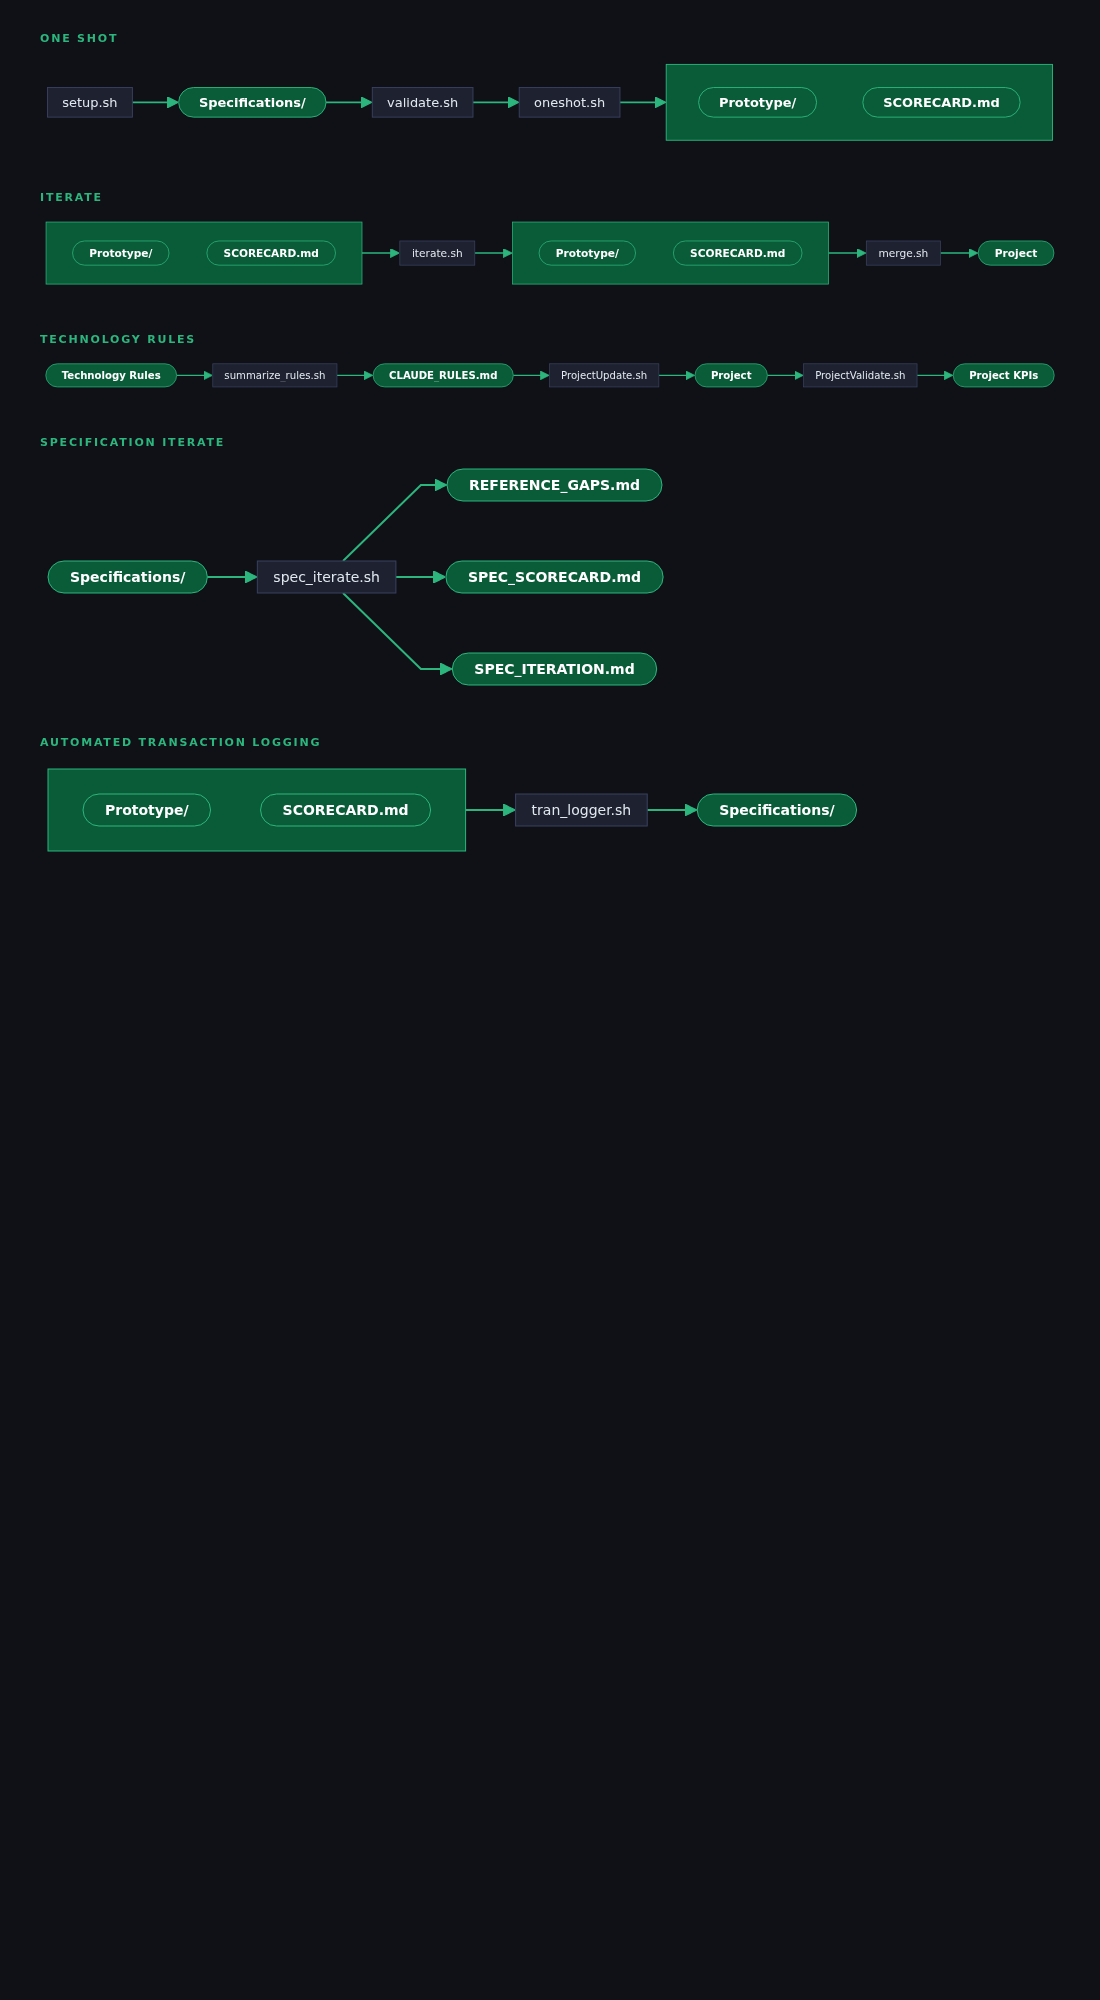
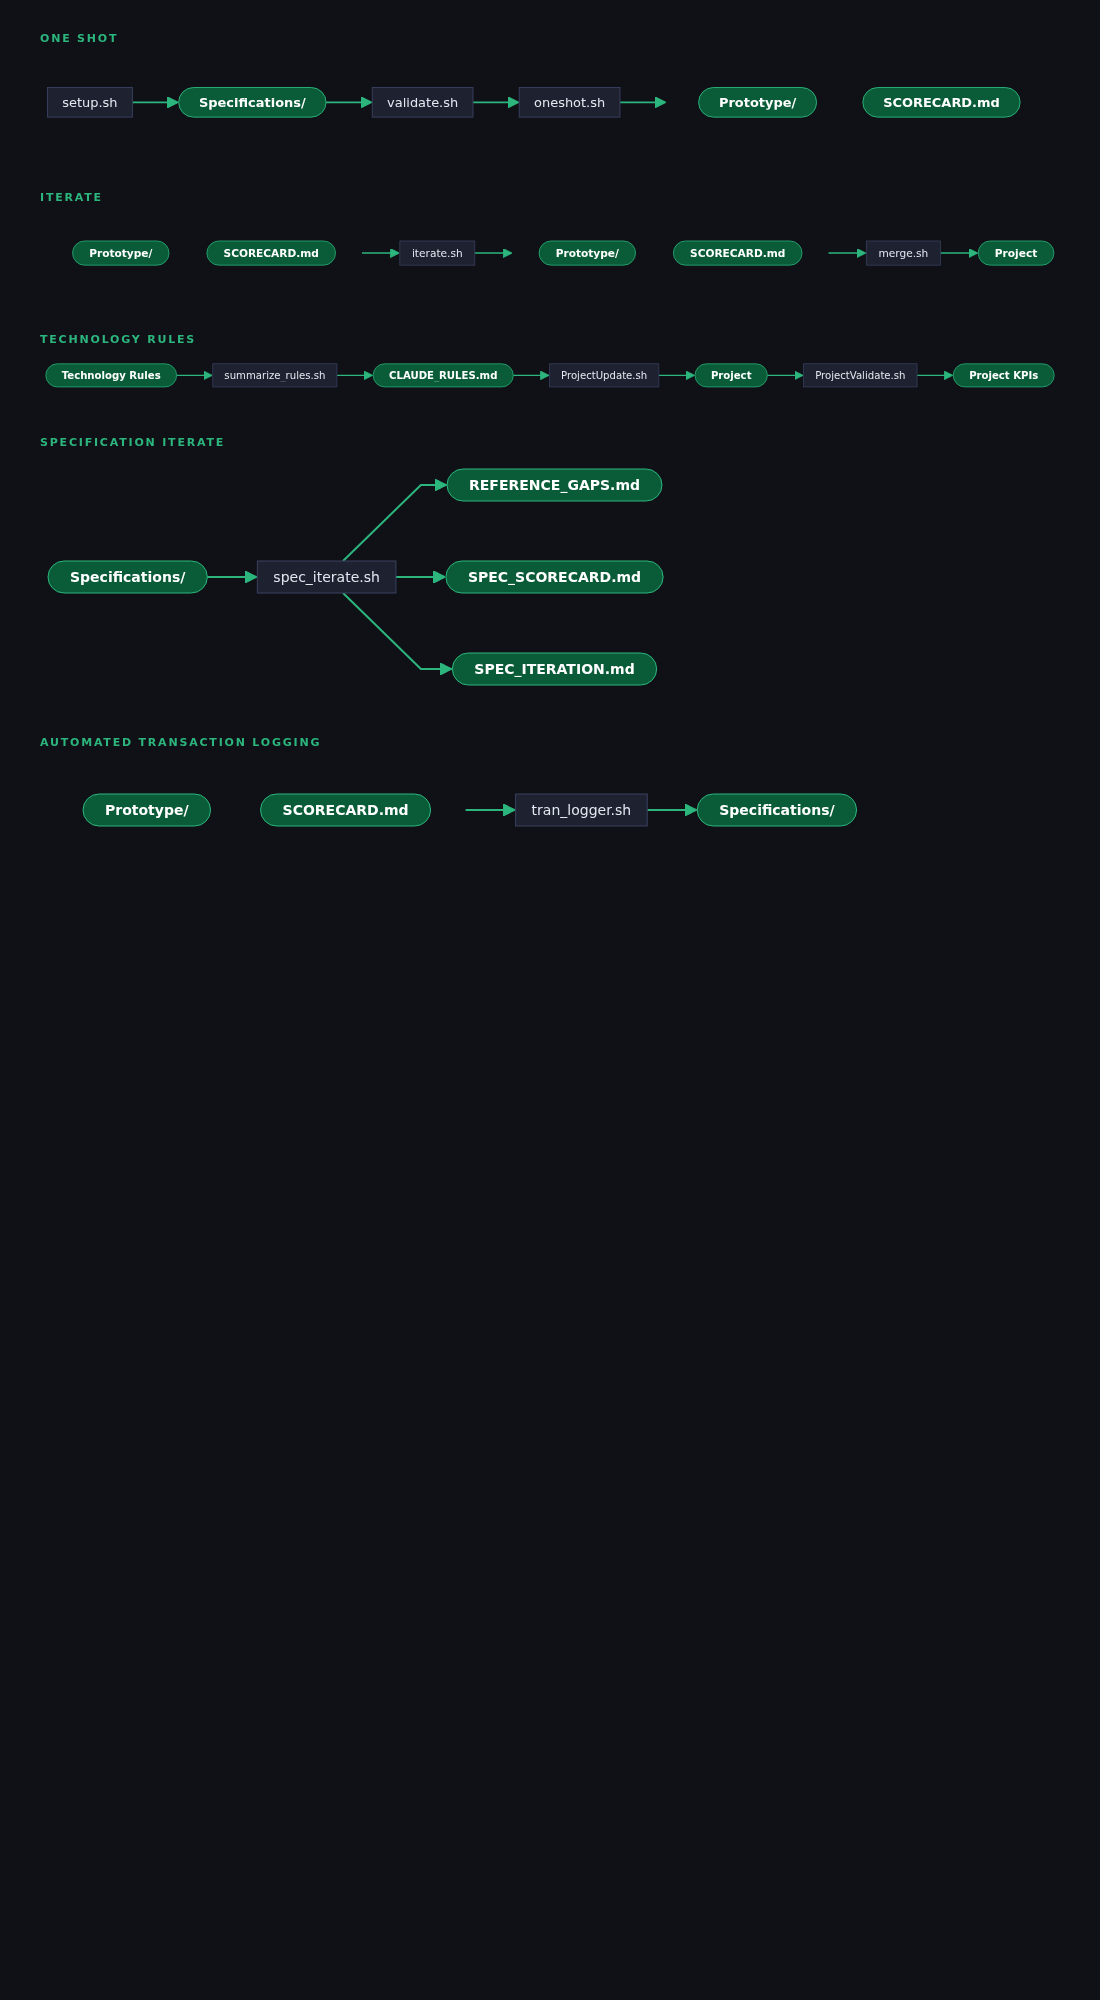
doc: remove subgraph container — Prototype/ and SCORECARD.md as two separate nodes

Changed region(s): [[0.4636, 0.031, 0.9582, 0.155], [0.0309, 0.372, 0.4327, 0.434], [0.0309, 0.093, 0.34, 0.155]]

diff --git a/doc_v2/diagrams.html b/doc_v2/diagrams.html
@@ -53,6 +53,7 @@ flowchart LR
     PT(["Prototype/"]):::entity
     SC(["SCORECARD.md"]):::entity
   end
+  style PROTO_GRP fill:none,stroke:none
 </div>
 
 <h2>Iterate</h2>
@@ -68,12 +69,14 @@ flowchart LR
     PT1(["Prototype/"]):::entity
     SC1(["SCORECARD.md"]):::entity
   end
+  style PROTO1_GRP fill:none,stroke:none
 
   subgraph PROTO2_GRP [" "]
     direction TB
     PT2(["Prototype/"]):::entity
     SC2(["SCORECARD.md"]):::entity
   end
+  style PROTO2_GRP fill:none,stroke:none
 </div>
 
 <h2>Technology Rules</h2>
@@ -118,6 +121,7 @@ flowchart LR
     PT(["Prototype/"]):::entity
     SC(["SCORECARD.md"]):::entity
   end
+  style PROTO_GRP fill:none,stroke:none
 </div>
 
 </body>
